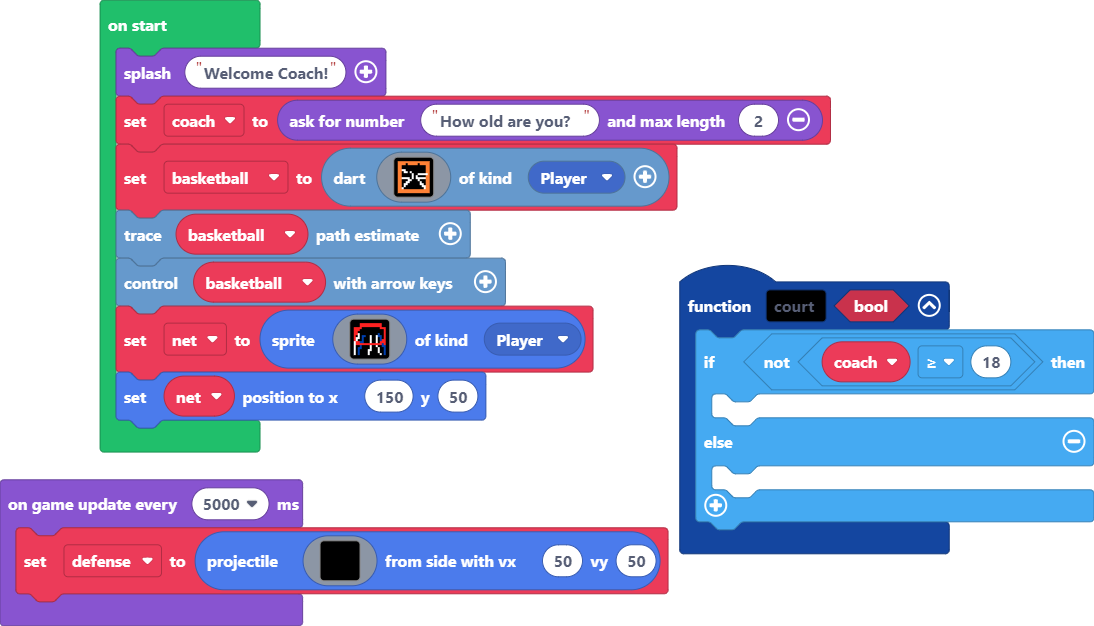
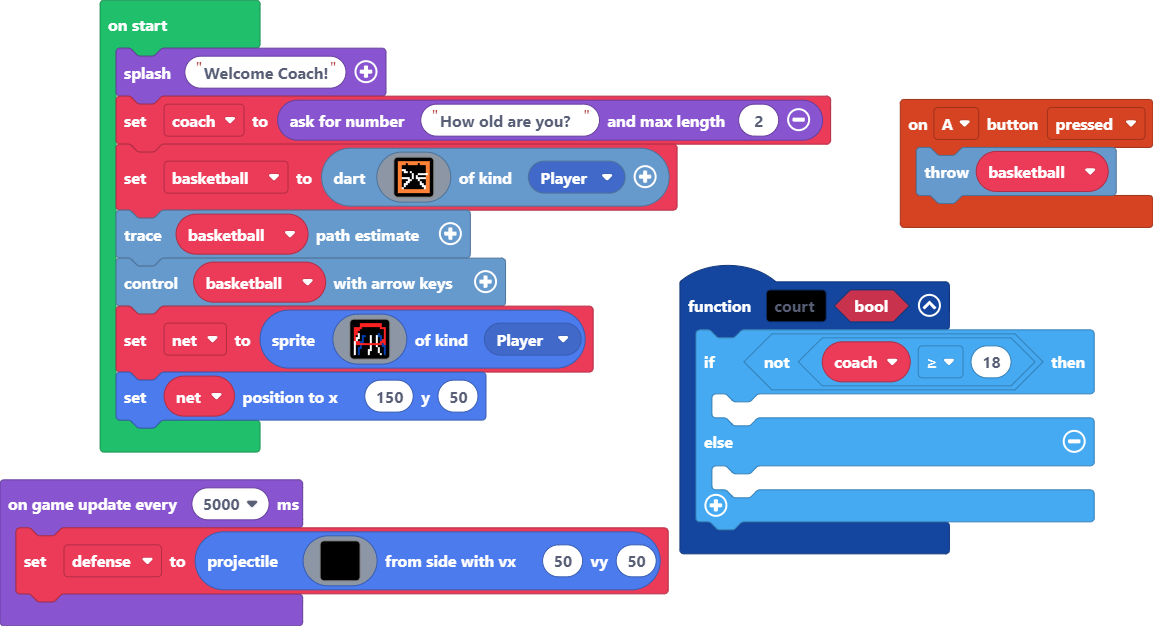
Update main.blocks, main.ts

diff --git a/main.ts b/main.ts
@@ -1,3 +1,6 @@
+controller.A.onEvent(ControllerButtonEvent.Pressed, function () {
+    basketball.throwDart()
+})
 function court (bool: boolean) {
     if (!(coach >= 18)) {
     	
@@ -6,10 +9,11 @@ function court (bool: boolean) {
     }
 }
 let defense: Sprite = null
+let basketball: Dart = null
 let coach = 0
 game.splash("Welcome Coach!")
 coach = game.askForNumber("How old are you?", 2)
-let basketball = darts.create(img`
+basketball = darts.create(img`
     4 4 4 4 4 4 4 4 4 4 4 4 4 4 4 4 
     4 4 4 4 f 4 4 4 4 4 f 4 4 4 4 4 
     4 4 . f f f . f . . f . f . 4 4 
